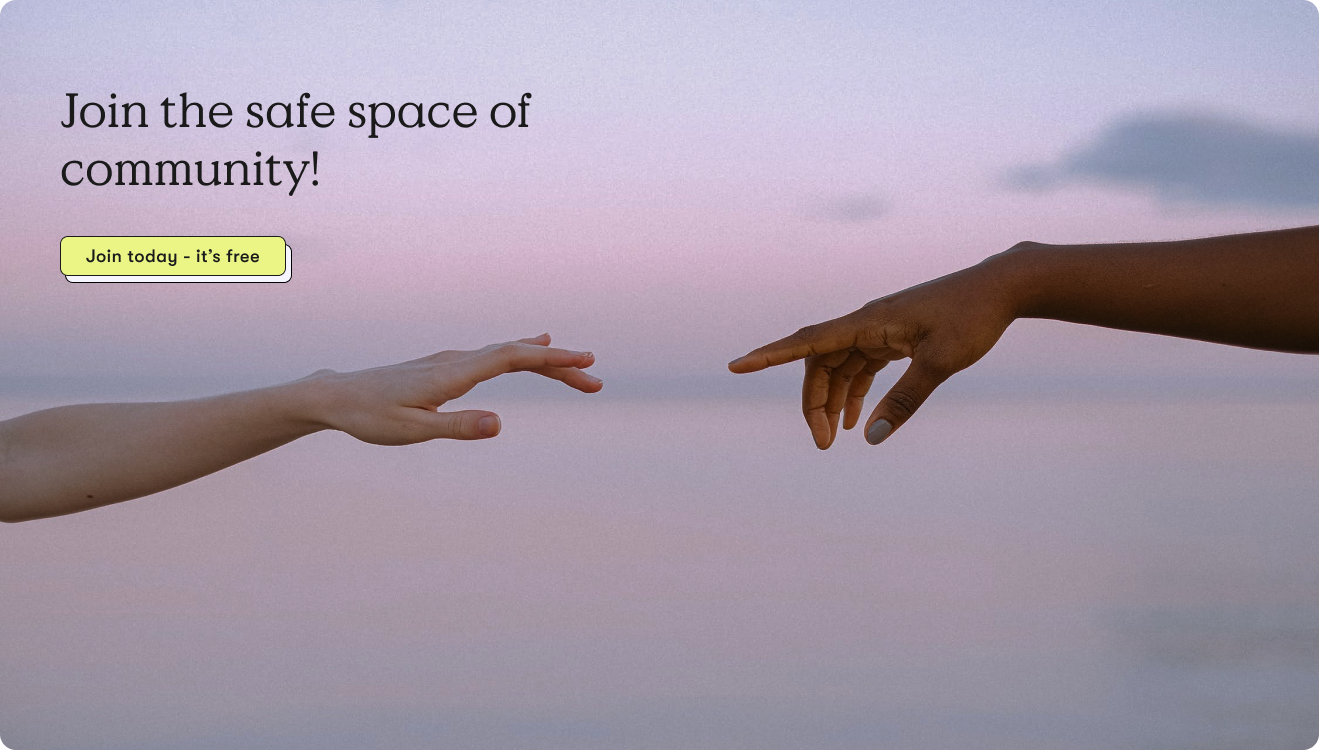
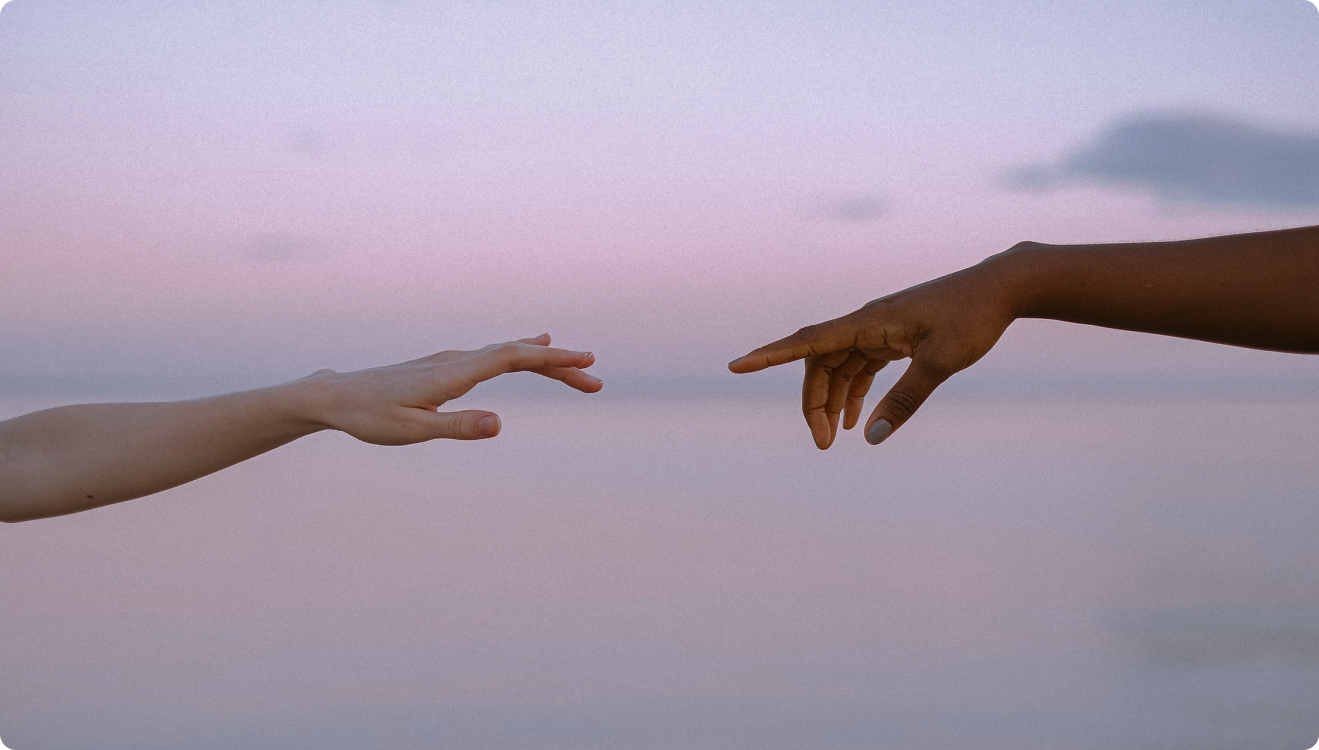
i have written  css  code fifth  page avec figma

Changed region(s): [[0.0311, 0.1227, 0.4041, 0.184], [0.0311, 0.3067, 0.2487, 0.3987], [0.0311, 0.2147, 0.2487, 0.2453]]

diff --git a/exercices_emploilausanne/FIGMA/mySITE/css/style.css b/exercices_emploilausanne/FIGMA/mySITE/css/style.css
@@ -764,3 +764,36 @@ li a:hover {
     bottom: -41px;
     right: 55px;
 }
+
+/* MAIN Part 5 */
+#main_div_five{
+background: url("/img/Frame\ 52984707.png") no-repeat;
+background-size: cover;
+height: 750px;
+padding: 80px 60px 60px 60px;
+}
+#main_div_five h2{
+    color: var(--black, #1A1A1A);
+font-family: Value Serif Pro;
+font-size: 48px;
+font-style: normal;
+font-weight: 400;
+line-height: normal;
+margin-bottom: 24px;
+
+}
+#main_div_five button{
+    border-radius: 8px;
+    border: 1px solid var(--black, #1A1A1A);
+    background: var(--yellow, #EAF586);
+    width: 275px;
+    padding: 8px 38px;
+    box-shadow: 5px 5px rgb(231, 223, 223);
+}
+#main_div_five button:hover{
+    cursor: pointer;
+    background-color: #bbca33;
+    color: white;
+    border: none;
+    box-shadow: none;
+}

diff --git a/exercices_emploilausanne/FIGMA/mySITE/index.html b/exercices_emploilausanne/FIGMA/mySITE/index.html
@@ -288,37 +288,36 @@
                 </div>
             </div>
         </div>
-
-
-
-
-
-
-
-
-
-
-
-
-
-
-
-
-
-
-
-
-
-
-
-
-
-
         <!-- main part 5 -->
         <div id="main_div_five">
-            <h2>Join the safe space of community!</h2>
+            <h2>Join the safe space of <br> community!</h2>
             <button>Join today - it's free</button>
         </div>
+
+
+
+
+
+
+
+
+
+
+
+
+
+
+
+
+
+
+
+
+
+
+
+
+
         <!-- main part 6 -->
         <div id="main_div_six">
             <div id="main_div_six_top">
